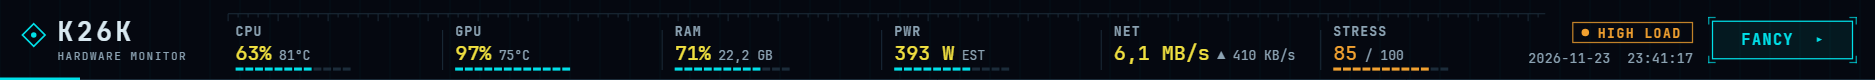
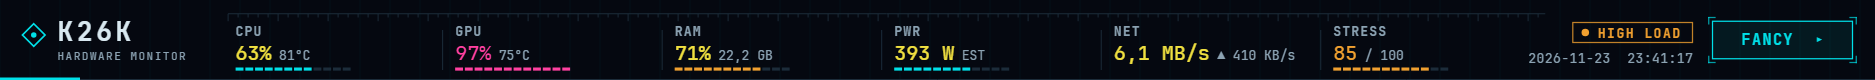
Desktop design council round 10: header segments follow the meter steps

Changed region(s): [[0.2165, 0.575, 0.2784, 0.75], [0.3403, 0.825, 0.4331, 0.9], [0.2165, 0.825, 0.3093, 0.9]]

diff --git a/LibreHardwareMonitor.Windows.Forms/UI/SciFi/HudHeader.cs b/LibreHardwareMonitor.Windows.Forms/UI/SciFi/HudHeader.cs
@@ -191,8 +191,10 @@ public sealed class HudHeader : SkiaView
             Fui.Text(c, cell.Label, cx, 29 * k, 10 * k, Dim, "Bold", spacing: 1.2f * k);
             // the stress cell takes the state color, the same scale as the state pill and Fancy
             bool stress = cell.Label == "STRESS";
-            SKColor valueColor = stress ? (m.State == "NOMINAL" ? Data : stateColor) : cell.Hot ? Alarm : Data;
-            SKColor barColor = stress ? stateColor : cell.Hot ? Alarm : Accent;
+            SKColor valueColor = stress ? (m.State == "NOMINAL" ? Data : stateColor) : cell.Hot || cell.Fraction >= 0.9 ? Alarm : Data;
+            // the load segments follow the same steps as the meters in the grid (< 70 % cyan, ≥ 70 % orange, ≥ 90 % pink)
+            SKColor stepColor = cell.Label == "PWR" ? Accent : cell.Fraction >= 0.9 ? Alarm : cell.Fraction >= 0.7 ? Cool : Accent;
+            SKColor barColor = stress ? stateColor : cell.Hot ? Alarm : stepColor;
             float vw = Fui.Text(c, cell.Value, cx, 48 * k, valueSize, valueColor, "Medium");
             // (the state itself is only in the pill on the right, not repeated here)
             Fui.Text(c, cell.Sub, cx + vw + 6 * k, 48 * k, 10.5f * k, Dim, "Medium");

diff --git a/LibreHardwareMonitor.Windows.Forms/UI/PlotPanel.cs b/LibreHardwareMonitor.Windows.Forms/UI/PlotPanel.cs
@@ -179,6 +179,8 @@ public class PlotPanel : UserControl
         {
             LinearAxis axis = pair.Value;
             axis.MinimumRange = Theme.Current.PlotMinimumSpans ? MinimumSpan(pair.Key) : 0;
+            // a little room above the highest value, so a curve at 100 % is not hidden by the separator
+            axis.MaximumPadding = Theme.Current.PlotMinimumSpans ? 0.05 : 0.01;
             if (string.IsNullOrEmpty(axis.Key))
                 continue;
             axis.Title = AxisHeadsActive ? null : Theme.Current.PlotUppercaseTitles ? axis.Key.ToUpperInvariant() : axis.Key;

diff --git a/docs/desktop-design-council/README.md b/docs/desktop-design-council/README.md
@@ -321,3 +321,17 @@ Sci-Fi main window
 - Meter legend in the status strip at 12 px.
 - New capture `window-scifi-load.png`: the real window while every CPU core runs a busy loop (started by `capture.ps1`, each loop ends after 100 s). It shows the load colors that idle captures cannot show: full pink meters with `▲ 100,0 %`, the `HIGH LOAD` pill and the stress value in the header turning orange.
 - Not changed on purpose: a device without readable sensors gets no `// 0 CH`; with it, the long board name lost its end.
+
+## Round 10: scores
+
+| | M1 Opus | M2 Sonnet | M3 Sonnet | M4 Haiku |
+| --- | :-: | :-: | :-: | :-: |
+| Overall | **9** | **9** | **9** | 8 |
+| Sci-Fi | **9** | **9** | **9** | 8 |
+| Fancy | **9** | **9** | **9** | **9** |
+
+The load capture convinced M1 to M3 that the colors carry meaning (pink meters plus `▲`, legend in the status strip). M4 keeps Sci-Fi at 8: the device heads could be a bit stronger, and idle and load "look like two separate pictures rather than one instrument with states".
+
+Found through the load capture and fixed right away (M1, M2): the header segments for CPU, GPU and RAM now follow the same steps as the grid meters (pink at 90 %, orange at 70 %; the value turns pink at 90 %), and stacked axes keep 5 % room above the highest value, so a curve at 100 % is no longer hidden by the separator.
+
+**Status after round 10**: M1, M2 and M3 have given 9 in all three categories since round 4 and confirmed it in every round since. M4 gives Fancy 9 since round 5 and Sci-Fi 8 since round 5; its points have moved from concrete defects to matters of degree.
